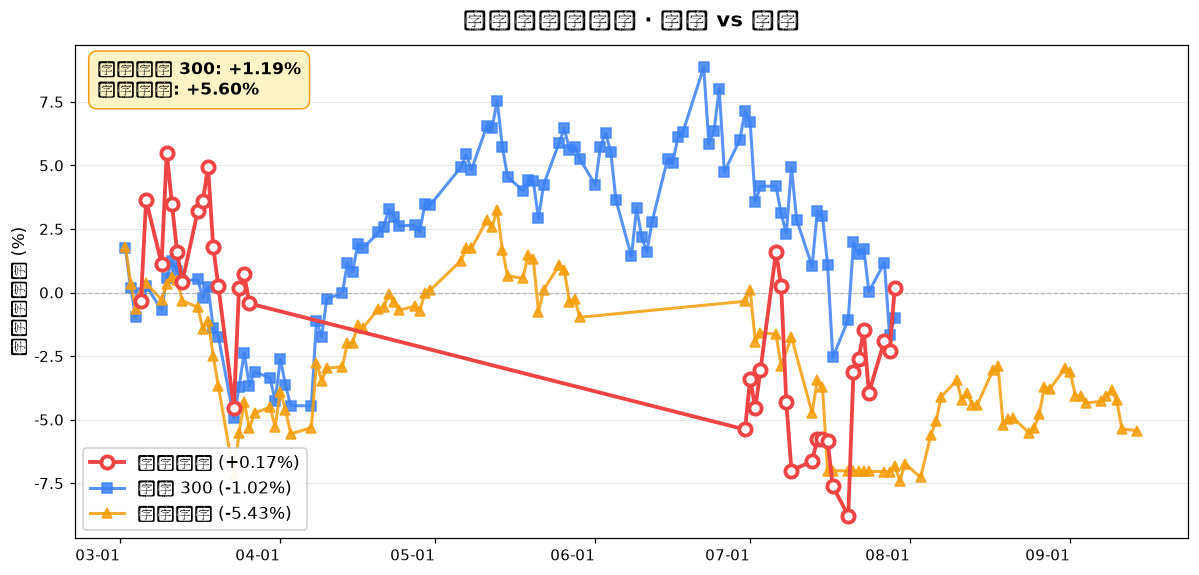
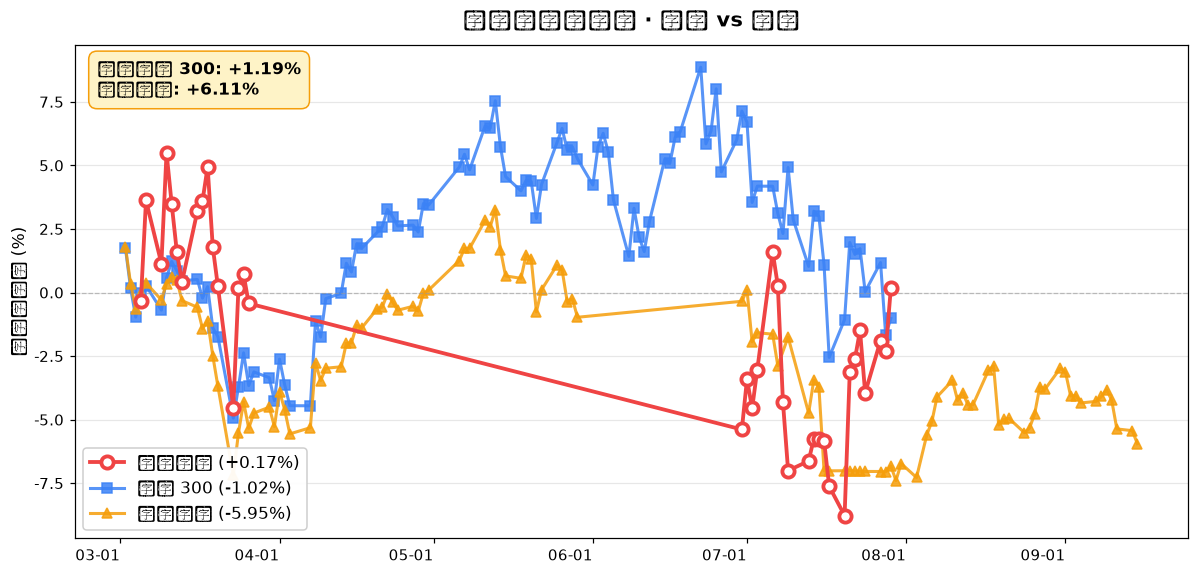
deploy dashboard 2026-09-15

diff --git a/dashboard/index.html b/dashboard/index.html
@@ -3,7 +3,7 @@
 <head>
 <meta charset="UTF-8">
 <meta name="viewport" content="width=device-width, initial-scale=1.0, user-scalable=no">
-<title>持仓 Dashboard · 2026-09-14</title>
+<title>持仓 Dashboard · 2026-09-15</title>
 <meta http-equiv="Cache-Control" content="no-cache">
 <style>
   * { margin: 0; padding: 0; box-sizing: border-box; }
@@ -111,7 +111,7 @@
 
 <div class="header">
   <h1 data-i18n="title">📊 持仓 Dashboard</h1>
-  <div class="date">2026-09-14 · 更新于 08:20</div>
+  <div class="date">2026-09-15 · 更新于 08:39</div>
 </div>
 
 <div class="hero-pnl" style="padding:16px">
@@ -123,8 +123,8 @@
       <div style="font-size:11px;color:#9ca3af"><span data-i18n="sublabel1">(持仓浮盈/亏)</span></div>
     </div>
     <div style="text-align:right">
-      <div style="font-size:18px;font-weight:700;color:#fff">-2534.35 元</div>
-      <div style="font-size:12px;color:#ffffffee">-14.85%</div>
+      <div style="font-size:18px;font-weight:700;color:#fff">-2521.35 元</div>
+      <div style="font-size:12px;color:#ffffffee">-14.77%</div>
     </div>
   </div>
 
@@ -145,8 +145,8 @@
       <div style="font-size:11px;color:#9ca3af">总% vs 初始总投入</div>
     </div>
     <div style="text-align:right">
-      <div style="font-size:22px;font-weight:800;color:#fff">-1938.15 元</div>
-      <div style="font-size:13px;color:#ffffffee">-4.85%</div>
+      <div style="font-size:22px;font-weight:800;color:#fff">-1925.15 元</div>
+      <div style="font-size:13px;color:#ffffffee">-4.82%</div>
     </div>
   </div>
 </div>
@@ -157,7 +157,7 @@
 
 <div class="excess">
         <b>🔴 跑赢 沪深 300</b>: +1.19%<br>
-        <b>🔴 跑赢 上证指数</b>: +5.60%
+        <b>🔴 跑赢 上证指数</b>: +6.11%
     </div>
 
 <div class="section">
@@ -166,28 +166,14 @@
           <div class="name">杉杉股份 <span style="color:#9ca3af;font-weight:normal">(600884)</span></div>
           <div class="row"><span class="k">持仓</span><span>1300 股</span></div>
           <div class="row"><span class="k">成本</span><span>13.130</span></div>
-          <div class="row"><span class="k">现价</span><span>11.180</span></div>
-          <div class="row"><span class="k">盈亏</span><span class="green">-2534.35 (-14.85%)</span></div>
+          <div class="row"><span class="k">现价</span><span>11.190</span></div>
+          <div class="row"><span class="k">盈亏</span><span class="green">-2521.35 (-14.77%)</span></div>
         </div>
 </div>
 
 <div class="section"><h2>🚪 已清仓 (4 只)</h2><div style="font-size:11px;color:#9ca3af;margin-bottom:8px">
         清仓释放本金 <b>23512.50</b> 元 · 累计实现 <b style="color:#ef4444">+596.20</b> 元
     </div><div class="holding-card loss" style="border-left-color:#6b7280">
-          <div class="name">春秋航空 <span style="color:#9ca3af;font-weight:normal">(601021) 已清仓</span></div>
-          <div class="row"><span class="k">清仓日</span><span>2026-09-07</span></div>
-          <div class="row"><span class="k">成本</span><span>4419.00</span></div>
-          <div class="row"><span class="k">收回</span><span>4426.00</span></div>
-          <div class="row"><span class="k">实现盈亏</span><span class="red">+2.00 (+0.05%)</span></div>
-        </div>
-<div class="holding-card loss" style="border-left-color:#6b7280">
-          <div class="name">厦门国贸 <span style="color:#9ca3af;font-weight:normal">(600755) 已清仓</span></div>
-          <div class="row"><span class="k">清仓日</span><span>-</span></div>
-          <div class="row"><span class="k">成本</span><span>2220.00</span></div>
-          <div class="row"><span class="k">收回</span><span>2272.00</span></div>
-          <div class="row"><span class="k">实现盈亏</span><span class="red">+47.00 (+2.12%)</span></div>
-        </div>
-<div class="holding-card loss" style="border-left-color:#6b7280">
           <div class="name">金地集团 <span style="color:#9ca3af;font-weight:normal">(600383) 已清仓</span></div>
           <div class="row"><span class="k">清仓日</span><span>2026-09-03</span></div>
           <div class="row"><span class="k">成本</span><span>1319.40</span></div>
@@ -200,6 +186,20 @@
           <div class="row"><span class="k">成本</span><span>14927.90</span></div>
           <div class="row"><span class="k">收回</span><span>15404.50</span></div>
           <div class="row"><span class="k">实现盈亏</span><span class="red">+461.60 (+3.09%)</span></div>
+        </div>
+<div class="holding-card loss" style="border-left-color:#6b7280">
+          <div class="name">春秋航空 <span style="color:#9ca3af;font-weight:normal">(601021) 已清仓</span></div>
+          <div class="row"><span class="k">清仓日</span><span>2026-09-07</span></div>
+          <div class="row"><span class="k">成本</span><span>4419.00</span></div>
+          <div class="row"><span class="k">收回</span><span>4426.00</span></div>
+          <div class="row"><span class="k">实现盈亏</span><span class="red">+2.00 (+0.05%)</span></div>
+        </div>
+<div class="holding-card loss" style="border-left-color:#6b7280">
+          <div class="name">厦门国贸 <span style="color:#9ca3af;font-weight:normal">(600755) 已清仓</span></div>
+          <div class="row"><span class="k">清仓日</span><span>-</span></div>
+          <div class="row"><span class="k">成本</span><span>2220.00</span></div>
+          <div class="row"><span class="k">收回</span><span>2272.00</span></div>
+          <div class="row"><span class="k">实现盈亏</span><span class="red">+47.00 (+2.12%)</span></div>
         </div></div>
 
 <div class="section">
@@ -210,9 +210,9 @@
           <td>杉杉股份</td>
           <td class="num">1300</td>
           <td class="num">13.130</td>
-          <td class="num">11.180</td>
-          <td class="num green">-2534.35</td>
-          <td class="num green">-14.85%</td>
+          <td class="num">11.190</td>
+          <td class="num green">-2521.35</td>
+          <td class="num green">-14.77%</td>
           <td class="num green">+100.0%</td>
         </tr>
     </table>
